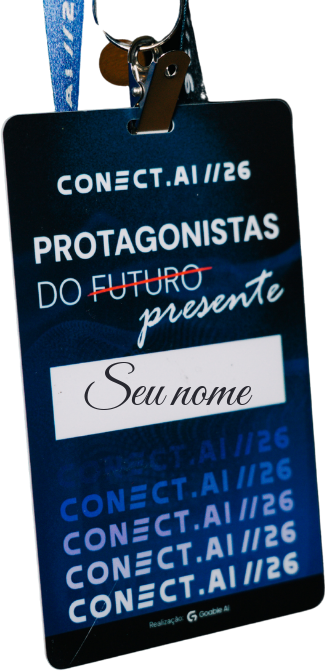
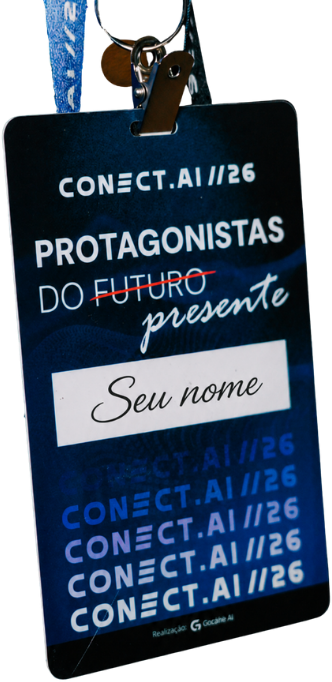
Business: cracha escrito (sua versao) + FOMO redesenhada como secao completa
- Cracha do Business trocado pela versao final com Seu nome
- FOMO vira secao com grafico do gap animado (linhas com IA vs estudando divergindo, area do atraso)
- 3 cards com icones SVG animados (assentos com vaga piscando, calendario, raio)
- Scan de luz, bracket do gap, labels e trimestres; respeita prefers-reduced-motion

diff --git a/src/styles.css b/src/styles.css
@@ -16076,3 +16076,216 @@ button.biz-btn-primary {
     justify-content: center;
   }
 }
+
+/* ==========================================================================
+   CONECT.BUSINESS — FOMO redesenhada (grafico do gap + icones SVG animados)
+   ========================================================================== */
+.biz-fomo-shell {
+  position: relative;
+  isolation: isolate;
+  overflow: hidden;
+  border: 1px solid rgba(245, 166, 35, 0.3);
+  border-radius: clamp(1.6rem, 4vw, 2.8rem);
+  background:
+    radial-gradient(circle at 4% 0%, rgba(245, 166, 35, 0.14), transparent 44%),
+    linear-gradient(155deg, #16120b, #0b0a12 68%);
+  box-shadow: 0 60px 150px -70px rgba(245, 166, 35, 0.4);
+  padding: clamp(1.8rem, 5vw, 3.4rem);
+}
+.biz-fomo-glow {
+  position: absolute;
+  inset: -30% 24% auto -14%;
+  height: 130%;
+  z-index: -1;
+  background: radial-gradient(circle at 60% 20%, rgba(245, 166, 35, 0.22), transparent 46%);
+  animation: goable-bg-breathe 9s ease-in-out infinite;
+}
+.biz-fomo-scan {
+  position: absolute;
+  inset: 0;
+  z-index: -1;
+  pointer-events: none;
+  background: linear-gradient(90deg, transparent, rgba(245, 166, 35, 0.06) 50%, transparent);
+  background-size: 60% 100%;
+  background-repeat: no-repeat;
+  animation: biz-fomo-scan 6s ease-in-out infinite;
+}
+@keyframes biz-fomo-scan {
+  0% { background-position: -40% 0; }
+  100% { background-position: 140% 0; }
+}
+.biz-fomo-top {
+  display: grid;
+  grid-template-columns: 1.02fr 0.98fr;
+  gap: clamp(1.6rem, 4vw, 3rem);
+  align-items: center;
+}
+.biz-fomo-eyebrow {
+  display: inline-flex;
+  align-items: center;
+  gap: 0.5rem;
+  color: #f5a623;
+  font-size: 0.7rem;
+  font-weight: 900;
+  letter-spacing: 0.16em;
+  text-transform: uppercase;
+}
+.biz-fomo-warn {
+  width: 1.05rem;
+  height: 1.05rem;
+  fill: none;
+  stroke: #f5a623;
+  stroke-width: 2;
+  stroke-linejoin: round;
+  stroke-linecap: round;
+  animation: cai-chip-pulse 1.8s ease-in-out infinite;
+}
+.biz-fomo-warn circle { fill: #f5a623; stroke: none; }
+.biz-fomo-h2 {
+  margin: 1rem 0 0;
+  color: #fff;
+  font-size: clamp(1.8rem, 3.6vw, 2.9rem);
+  font-weight: 950;
+  line-height: 1.05;
+  letter-spacing: -0.035em;
+  text-wrap: balance;
+}
+.biz-fomo-hl {
+  background: linear-gradient(100deg, #ffcf6b, #f5a623 90%);
+  -webkit-background-clip: text;
+  background-clip: text;
+  color: transparent;
+}
+.biz-fomo-lead {
+  margin: 1.2rem 0 0;
+  max-width: 40rem;
+  color: rgba(232, 228, 245, 0.64);
+  font-size: 1rem;
+  line-height: 1.62;
+}
+.biz-fomo-btn {
+  display: inline-flex;
+  align-items: center;
+  gap: 0.55rem;
+  margin-top: 1.7rem;
+  border: 0;
+  cursor: pointer;
+  font-family: inherit;
+  border-radius: 999px;
+  background: linear-gradient(135deg, #ffc54d, #f5a623);
+  color: #221500;
+  padding: 1rem 1.7rem;
+  font-size: 0.98rem;
+  font-weight: 900;
+  letter-spacing: -0.01em;
+  box-shadow: inset 0 1px 0 rgba(255, 255, 255, 0.45), 0 22px 50px -20px rgba(245, 166, 35, 0.85);
+  transition: transform 0.3s ease, box-shadow 0.3s ease, filter 0.3s ease;
+}
+.biz-fomo-btn svg { width: 1.05rem; height: 1.05rem; transition: transform 0.3s ease; }
+.biz-fomo-btn:hover { transform: translateY(-2px); filter: brightness(1.05); }
+.biz-fomo-btn:hover svg { transform: translateX(4px); }
+
+/* Grafico do gap */
+.biz-fomo-chart {
+  position: relative;
+  border: 1px solid rgba(245, 166, 35, 0.18);
+  border-radius: 1.4rem;
+  background: rgba(255, 255, 255, 0.02);
+  padding: 0.6rem 0.4rem;
+}
+.biz-gap { width: 100%; height: auto; display: block; overflow: visible; }
+.biz-gap-grid { stroke: rgba(255, 255, 255, 0.06); stroke-width: 1; }
+.biz-gap-noai, .biz-gap-ai {
+  fill: none;
+  stroke-width: 3;
+  stroke-linecap: round;
+  stroke-linejoin: round;
+  stroke-dasharray: 520;
+  stroke-dashoffset: 520;
+}
+.biz-gap-noai { stroke: rgba(180, 184, 200, 0.6); stroke-width: 2.4; }
+.biz-gap-ai { filter: drop-shadow(0 0 6px rgba(245, 166, 35, 0.7)); }
+.biz-fomo-chart.is-in .biz-gap-noai { animation: biz-gap-draw 1.5s ease 0.1s forwards; }
+.biz-fomo-chart.is-in .biz-gap-ai { animation: biz-gap-draw 1.6s cubic-bezier(0.16, 0.8, 0.3, 1) 0.25s forwards; }
+@keyframes biz-gap-draw { to { stroke-dashoffset: 0; } }
+.biz-gap-area { opacity: 0; }
+.biz-fomo-chart.is-in .biz-gap-area { animation: biz-gap-fill 1.2s ease 1s forwards; }
+@keyframes biz-gap-fill { to { opacity: 1; } }
+.biz-gap-dot-ai { fill: #ffcf6b; opacity: 0; }
+.biz-gap-dot-no { fill: rgba(180, 184, 200, 0.7); opacity: 0; }
+.biz-fomo-chart.is-in .biz-gap-dot-ai { animation: biz-gap-pop 0.5s ease 1.7s forwards, cai-chip-pulse 2s ease-in-out 2.2s infinite; }
+.biz-fomo-chart.is-in .biz-gap-dot-no { animation: biz-gap-pop 0.5s ease 1.5s forwards; }
+@keyframes biz-gap-pop { from { opacity: 0; } to { opacity: 1; } }
+.biz-gap-bracket {
+  stroke: #f5a623;
+  stroke-width: 1.6;
+  stroke-dasharray: 3 3;
+  opacity: 0;
+}
+.biz-fomo-chart.is-in .biz-gap-bracket { animation: biz-gap-fill 0.6s ease 1.6s forwards; }
+.biz-gap-gaptxt { fill: #ffcf6b; font-size: 12px; font-weight: 800; opacity: 0; }
+.biz-fomo-chart.is-in .biz-gap-gaptxt { animation: biz-gap-fill 0.6s ease 1.9s forwards; }
+.biz-gap-lb { font-size: 13px; font-weight: 800; }
+.biz-gap-lb-ai { fill: #ffcf6b; }
+.biz-gap-lb-no { fill: rgba(180, 184, 200, 0.75); }
+.biz-gap-q { fill: rgba(232, 228, 245, 0.45); font-size: 11px; font-weight: 700; text-anchor: middle; }
+
+/* Cards com icone SVG animado */
+.biz-fomo-grid {
+  display: grid;
+  grid-template-columns: repeat(3, minmax(0, 1fr));
+  gap: 0.8rem;
+  margin-top: 1.8rem;
+}
+.biz-fomo-mini {
+  border: 1px solid rgba(245, 166, 35, 0.22);
+  border-radius: 1.1rem;
+  background: rgba(245, 166, 35, 0.06);
+  padding: 1.1rem 1.2rem;
+  transition: transform 0.35s ease, border-color 0.35s ease, background 0.35s ease;
+}
+.biz-fomo-mini:hover {
+  transform: translateY(-5px);
+  border-color: rgba(245, 166, 35, 0.55);
+  background: rgba(245, 166, 35, 0.1);
+}
+.biz-fomo-mini-ic {
+  display: inline-flex;
+  align-items: center;
+  justify-content: center;
+  width: 2.7rem;
+  height: 2.7rem;
+  border-radius: 0.85rem;
+  border: 1px solid rgba(245, 166, 35, 0.4);
+  background: rgba(245, 166, 35, 0.14);
+  margin-bottom: 0.8rem;
+  padding: 0.55rem;
+}
+.biz-fomo-mini strong { display: block; color: #fff; font-size: 1rem; font-weight: 850; letter-spacing: -0.01em; }
+.biz-fomo-mini span { display: block; margin-top: 0.2rem; color: rgba(232, 228, 245, 0.55); font-size: 0.82rem; line-height: 1.4; }
+
+.biz-fic { width: 100%; height: 100%; fill: none; stroke: #f5a623; stroke-width: 2.4; stroke-linecap: round; stroke-linejoin: round; }
+.biz-fic-frame { stroke: #f5a623; }
+.biz-fic-draw { stroke: #ffcf6b; stroke-dasharray: 8; animation: biz-fic-draw 2.6s ease-in-out infinite; }
+@keyframes biz-fic-draw { 0% { stroke-dashoffset: 8; } 40%, 100% { stroke-dashoffset: 0; } }
+.biz-fic-mark { fill: #f5a623; stroke: none; transform-box: fill-box; transform-origin: center; animation: biz-fic-mark 2s ease-in-out infinite; }
+@keyframes biz-fic-mark { 0%, 100% { opacity: 0.5; transform: scale(0.85); } 50% { opacity: 1; transform: scale(1.1); } }
+.biz-fic-seat { fill: #f5a623; stroke: none; opacity: 0.9; }
+.biz-fic-seat-open { fill: none; stroke: #f5a623; stroke-width: 2; stroke-dasharray: 3 2.5; animation: biz-fic-blink 1.4s steps(1) infinite; }
+@keyframes biz-fic-blink { 0%, 100% { opacity: 1; } 50% { opacity: 0.25; } }
+.biz-fic-zap { fill: #f5a623; stroke: #ffcf6b; stroke-width: 1.5; stroke-linejoin: round; transform-box: fill-box; transform-origin: center; animation: biz-fic-zap 1.8s ease-in-out infinite; filter: drop-shadow(0 0 5px rgba(245, 166, 35, 0.7)); }
+@keyframes biz-fic-zap { 0%, 100% { opacity: 0.85; transform: scale(1); } 45% { opacity: 1; transform: scale(1.12); } 55% { opacity: 0.7; } }
+
+@media (max-width: 900px) {
+  .biz-fomo-top { grid-template-columns: 1fr; }
+}
+@media (max-width: 700px) {
+  .biz-fomo-grid { grid-template-columns: 1fr; }
+  .biz-fomo-btn { width: 100%; justify-content: center; }
+}
+@media (prefers-reduced-motion: reduce) {
+  .biz-fomo-glow, .biz-fomo-scan, .biz-fic-draw, .biz-fic-mark, .biz-fic-seat-open, .biz-fic-zap,
+  .biz-fomo-chart.is-in .biz-gap-noai, .biz-fomo-chart.is-in .biz-gap-ai { animation: none; }
+  .biz-gap-noai, .biz-gap-ai { stroke-dashoffset: 0; }
+  .biz-gap-area, .biz-gap-dot-ai, .biz-gap-dot-no, .biz-gap-bracket, .biz-gap-gaptxt { opacity: 1; }
+}

diff --git a/src/routes/conect-ai.business.tsx b/src/routes/conect-ai.business.tsx
@@ -1,5 +1,5 @@
 import { createFileRoute, Link } from "@tanstack/react-router";
-import { ArrowRight, ArrowUpRight, Check, ChevronDown, MessageCircle, Quote, Star, Linkedin, Lock, Calendar, Rocket } from "lucide-react";
+import { ArrowRight, ArrowUpRight, Check, ChevronDown, MessageCircle, Quote, Star, Linkedin } from "lucide-react";
 import { useEffect, useRef, useState } from "react";
 import type { CSSProperties } from "react";
 import { AppShell } from "@/components/goable/AppShell";
@@ -93,10 +93,10 @@ const testimonials: Array<{ photo: string; name: string; role: string; text: str
   { photo: img("conect-face-9.jpg"), name: "Jorge Scherer", role: "CEO · Jorge Scherer Fotógrafo", text: "fiquei muito inspirado com esse curso que basicamente me abriu a mente para esse universo!!" },
 ];
 
-const fomoCards: Array<{ icon: typeof Lock; title: string; sub: string }> = [
-  { icon: Lock, title: "Turma reduzida", sub: "Vagas curadas por perfil de decisor" },
-  { icon: Calendar, title: "Última em 2026", sub: "Próxima edição só em 2027" },
-  { icon: Rocket, title: "Impacto imediato", sub: "Sistemas rodando no dia seguinte" },
+const fomoCards = [
+  { icon: "seats", title: "Turma reduzida", sub: "Vagas curadas por perfil de decisor" },
+  { icon: "cal", title: "Última em 2026", sub: "Próxima edição só em 2027" },
+  { icon: "zap", title: "Impacto imediato", sub: "Sistemas rodando no dia seguinte" },
 ];
 
 const faqBiz: Array<[string, string]> = [
@@ -452,6 +452,76 @@ function LeadModal({ open, onClose }: { open: boolean; onClose: () => void }) {
   );
 }
 
+function GapChart() {
+  return (
+    <svg className="biz-gap" viewBox="0 0 420 260" preserveAspectRatio="xMidYMid meet" aria-hidden>
+      <defs>
+        <linearGradient id="gapAi" x1="0" y1="0" x2="1" y2="0">
+          <stop offset="0" stopColor="#f5a623" stopOpacity="0.5" />
+          <stop offset="1" stopColor="#ffcf6b" />
+        </linearGradient>
+        <linearGradient id="gapFill" x1="0" y1="0" x2="0" y2="1">
+          <stop offset="0" stopColor="#f5a623" stopOpacity="0.28" />
+          <stop offset="1" stopColor="#f5a623" stopOpacity="0" />
+        </linearGradient>
+      </defs>
+
+      {[70, 110, 150, 190].map((y) => (
+        <line key={y} className="biz-gap-grid" x1="30" y1={y} x2="392" y2={y} />
+      ))}
+
+      <path className="biz-gap-area" d="M34 150 L128 152 L222 158 L316 164 L392 170 L392 32 L316 60 L222 96 L128 126 L34 150 Z" fill="url(#gapFill)" />
+
+      <path className="biz-gap-noai" d="M34 150 L128 152 L222 158 L316 164 L392 170" />
+      <path className="biz-gap-ai" d="M34 150 L128 126 L222 96 L316 60 L392 32" stroke="url(#gapAi)" />
+
+      <circle className="biz-gap-dot-no" cx="392" cy="170" r="4" />
+      <circle className="biz-gap-dot-ai" cx="392" cy="32" r="5" />
+
+      <line className="biz-gap-bracket" x1="404" y1="34" x2="404" y2="168" />
+      <text className="biz-gap-gaptxt" x="410" y="104">seu atraso</text>
+
+      <text className="biz-gap-lb biz-gap-lb-ai" x="150" y="86">Empresas com IA</text>
+      <text className="biz-gap-lb biz-gap-lb-no" x="150" y="180">Ainda "estudando"</text>
+
+      {["Q1", "Q2", "Q3", "Q4"].map((q, i) => (
+        <text key={q} className="biz-gap-q" x={128 + i * 94 - 40} y="212">{q}</text>
+      ))}
+    </svg>
+  );
+}
+
+function FomoIcon({ kind }: { kind: string }) {
+  if (kind === "seats") {
+    return (
+      <svg viewBox="0 0 44 34" className="biz-fic" aria-hidden>
+        {[
+          [4, 4], [18, 4], [32, 4], [4, 19], [18, 19],
+        ].map(([x, y]) => (
+          <rect key={`${x}-${y}`} className="biz-fic-seat" x={x} y={y} width="9" height="11" rx="2" />
+        ))}
+        <rect className="biz-fic-seat-open" x="32" y="19" width="9" height="11" rx="2" />
+      </svg>
+    );
+  }
+  if (kind === "cal") {
+    return (
+      <svg viewBox="0 0 40 40" className="biz-fic" aria-hidden>
+        <rect className="biz-fic-frame" x="7" y="11" width="26" height="22" rx="3" />
+        <line className="biz-fic-frame" x1="7" y1="18" x2="33" y2="18" />
+        <line className="biz-fic-draw" x1="14" y1="7" x2="14" y2="13" />
+        <line className="biz-fic-draw" x1="26" y1="7" x2="26" y2="13" />
+        <rect className="biz-fic-mark" x="22" y="22" width="7" height="7" rx="1.5" />
+      </svg>
+    );
+  }
+  return (
+    <svg viewBox="0 0 40 40" className="biz-fic biz-fic-zapwrap" aria-hidden>
+      <path className="biz-fic-zap" d="M23 5 L11 22 h7 l-3 13 15 -19 h-8 z" />
+    </svg>
+  );
+}
+
 function BusinessPage() {
   const ref = useReveal();
   const [leadOpen, setLeadOpen] = useState(false);
@@ -736,29 +806,42 @@ function BusinessPage() {
         {/* CUSTO DE FICAR DE FORA */}
         <section className="biz-fomo">
           <div className="sb-inner">
-            <div className="biz-fomo-card" data-reveal>
+            <div className="biz-fomo-shell" data-reveal>
               <div className="biz-fomo-glow" aria-hidden />
-              <span className="biz-fomo-eyebrow"><span className="biz-fomo-warn">⚠</span> Custo de ficar de fora</span>
-              <h2 className="biz-fomo-h2">
-                Em 12 meses, sua empresa vai competir com quem já <span className="biz-fomo-hl">cortou 30% do custo operacional</span> com IA.
-              </h2>
-              <p className="biz-fomo-lead">
-                O gap entre empresas que incorporaram IA e as que ainda "estão estudando" cresce a
-                cada trimestre. Enquanto seu time debate se vale a pena, seu concorrente já está
-                entregando mais rápido, com menos gente e por menos dinheiro.
-              </p>
+              <div className="biz-fomo-scan" aria-hidden />
+              <div className="biz-fomo-top">
+                <div className="biz-fomo-copy">
+                  <span className="biz-fomo-eyebrow">
+                    <svg className="biz-fomo-warn" viewBox="0 0 24 24" aria-hidden><path d="M12 3 L22 20 H2 Z" /><line x1="12" y1="10" x2="12" y2="15" /><circle cx="12" cy="17.6" r="0.6" /></svg>
+                    Custo de ficar de fora
+                  </span>
+                  <h2 className="biz-fomo-h2">
+                    Em 12 meses, sua empresa vai competir com quem já <span className="biz-fomo-hl">cortou 30% do custo operacional</span> com IA.
+                  </h2>
+                  <p className="biz-fomo-lead">
+                    O gap entre quem incorporou IA e quem ainda "está estudando" cresce a cada
+                    trimestre. Enquanto seu time debate se vale a pena, seu concorrente já entrega
+                    mais rápido, com menos gente e por menos dinheiro.
+                  </p>
+                  <button type="button" className="biz-fomo-btn" onClick={() => setLeadOpen(true)}>
+                    Não quero ficar para trás <ArrowRight aria-hidden />
+                  </button>
+                </div>
+
+                <div className="biz-fomo-chart" data-reveal>
+                  <GapChart />
+                </div>
+              </div>
+
               <div className="biz-fomo-grid">
-                {fomoCards.map(({ icon: Icon, title, sub }) => (
-                  <div className="biz-fomo-mini" key={title}>
-                    <span className="biz-fomo-mini-ic"><Icon aria-hidden /></span>
-                    <strong>{title}</strong>
-                    <span>{sub}</span>
+                {fomoCards.map((c, i) => (
+                  <div className="biz-fomo-mini" data-reveal style={{ transitionDelay: `${i * 80}ms` }} key={c.title}>
+                    <span className="biz-fomo-mini-ic"><FomoIcon kind={c.icon} /></span>
+                    <strong>{c.title}</strong>
+                    <span>{c.sub}</span>
                   </div>
                 ))}
               </div>
-              <button type="button" className="biz-fomo-btn" onClick={() => setLeadOpen(true)}>
-                Não quero ficar para trás <ArrowRight aria-hidden />
-              </button>
             </div>
           </div>
         </section>